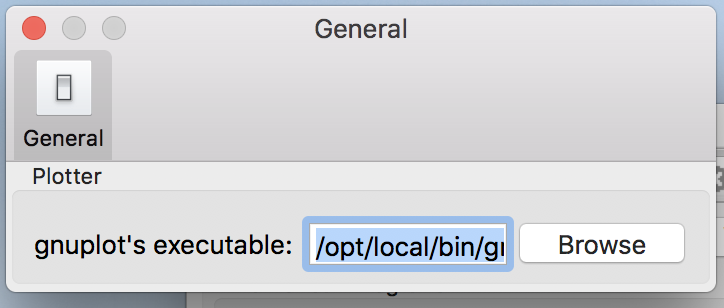
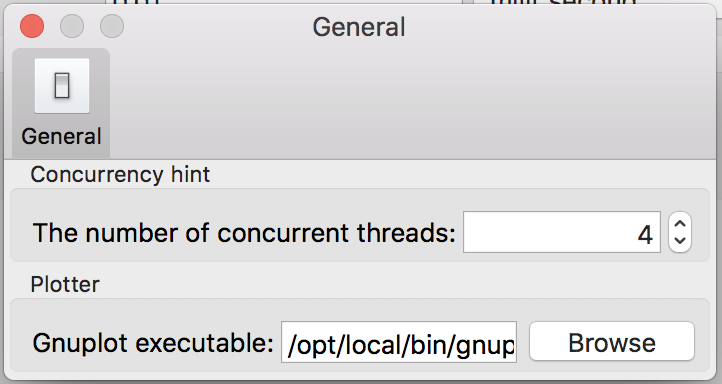
Release Flint 2.1

diff --git a/doc/flint-user-guide.tex b/doc/flint-user-guide.tex
@@ -383,6 +383,11 @@ will run a simulation, writing the whole output into {\tt output.isd}.
 Users can customize Flint's behavior via preference, which UI looks like
 Fig.~\ref{fig:preference-plotter}.
 
+\subsection{Concurrency hint}
+The concurrency hint helps Flint run multithread simulation with an optimized number
+of concurrent threads. By default Flint automatically detects the number of cores and
+preset it for the hint.
+
 \subsection{Plotter}
 This is a necessary option to render line graphs.
 Select the path of {\tt gnuplot} (or {\tt gnuplot.exe} on Windows), e.g.,
@@ -400,6 +405,8 @@ There are useful shortcut keys as follows:
   \hline
   File $\rightarrow$ Open & {\tt Cmd}+O & {\tt Ctrl}+O \\
   File $\rightarrow$ Exit & {\tt Cmd}+Q & {\tt Ctrl}+Q \\
+  File $\rightarrow$ Save configuration & {\tt Cmd}+S & {\tt Ctrl}+S \\
+  File $\rightarrow$ Save configuration as...& {\tt Cmd}+{\tt Shift}+S & {\tt Ctrl}+{\tt Shift}+S \\
   Edit $\rightarrow$ Copy & {\tt Cmd}+C & {\tt Ctrl}+C \\
   File $\rightarrow$ Cut  & {\tt Cmd}+X & {\tt Ctrl}+X \\
   Edit $\rightarrow$ Preference & {\tt Cmd}+, & {\tt Ctrl}+, \\
